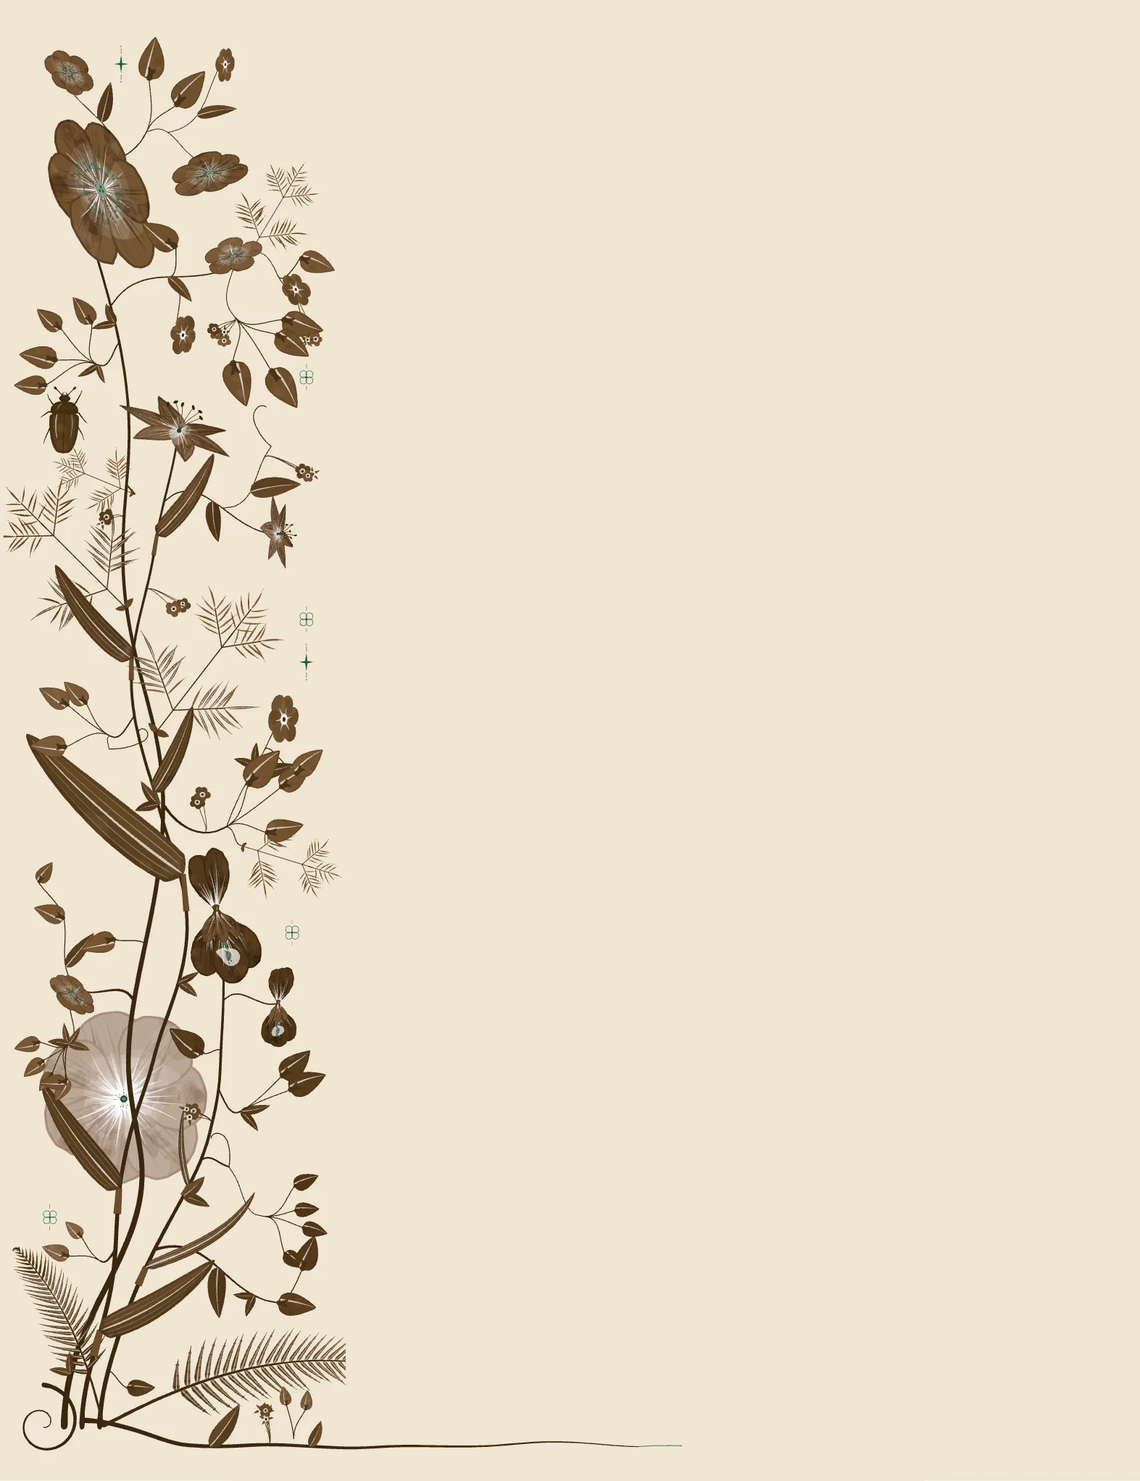
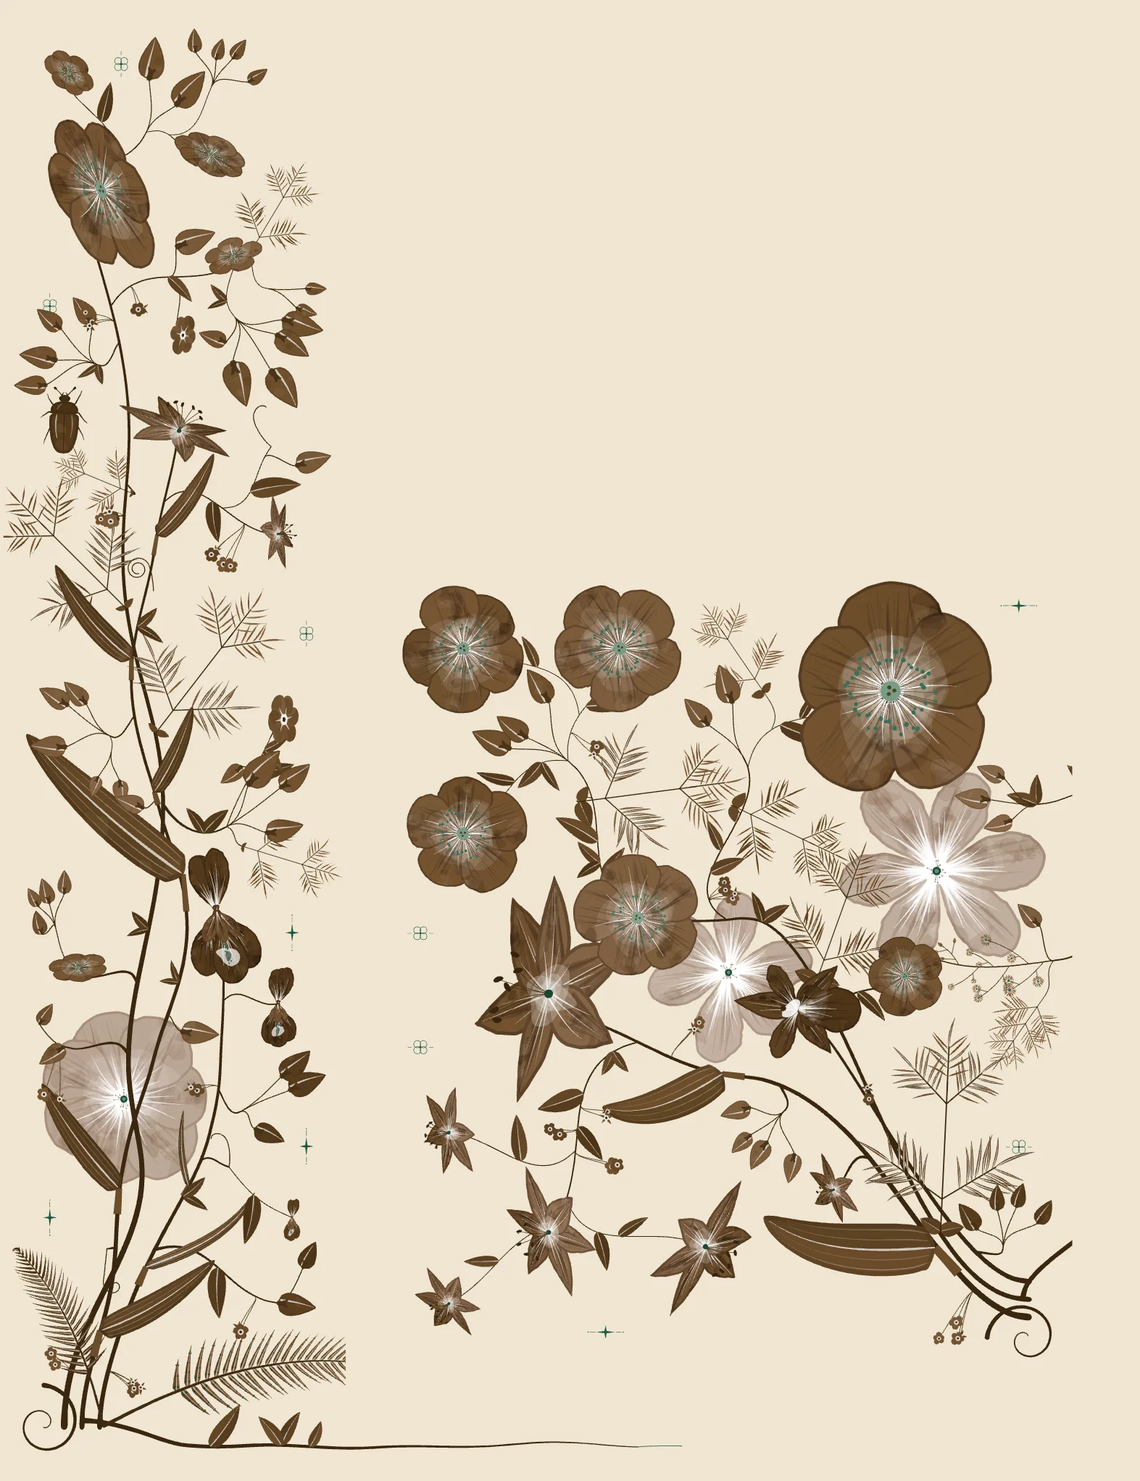
Illuminated header (full-field steppe garden, great initial P in steppe kinds, brush-ground title, painted herd); rising gardens on leaves; continuous brush-start arrows; unique brush grounds; label placement without overlaps
Claude-Session: https://claude.ai/code/session_019R7gPpA5XMnJ1Z11oENPQt

diff --git a/js/map.js b/js/map.js
@@ -3,6 +3,7 @@
 // engraved in red ochre as the reader scrolls, ending at its first written witness. A painted horse gallops along
 // the route being drawn.
 import { loadMask, paintSilhouette } from './painter.js';
+import { brushStroke, uniqueSeed } from './brush.js';
 
 // routes: lon/lat waypoints from the steppe to the place of each branch's earliest substantial texts
 // routes: lon/lat waypoints along each branch's usual archaeological path (steppe hypothesis, simplified),
@@ -58,6 +59,7 @@ export async function mapPlate(root) {
     const acc = [0]; for (let i = 1; i < Q.length; i++) acc.push(acc[i - 1] + Math.hypot(Q[i][0] - Q[i - 1][0], Q[i][1] - Q[i - 1][1]));
     const total = acc[acc.length - 1];
     return t => {
+      if (t < 0) { const a = Math.atan2(Q[3][1] - Q[0][1], Q[3][0] - Q[0][0]), back = -t * total; return [Q[0][0] - Math.cos(a) * back, Q[0][1] - Math.sin(a) * back, a]; }
       const s = Math.min(total, Math.max(0, t * total)); let i = 1; while (i < acc.length - 1 && acc[i] < s) i++;
       const u = (s - acc[i - 1]) / ((acc[i] - acc[i - 1]) || 1), x = Q[i - 1][0] + (Q[i][0] - Q[i - 1][0]) * u, y = Q[i - 1][1] + (Q[i][1] - Q[i - 1][1]) * u;
       const j = Math.min(Q.length - 1, i + 2), h = Math.max(0, i - 3);
@@ -69,12 +71,15 @@ export async function mapPlate(root) {
   const W0 = 44, W1 = 9, HEAD = 62;
   const arrow = (f, k) => {
     if (k <= 0.002) return '';
-    const N = 120, L = [], R = [];
+    // one continuous outline: it begins a little behind the route (the brush touching down), its width rising on a
+    // round profile to full, swelling slightly where the paint is loaded, then narrowing to the head
+    const CAP = .02, N = 140, L = [], R = [];
+    const wOf = t => t < 0 ? W0 / 2 * 1.1 * Math.sqrt(Math.max(0, 1 - (t / CAP) ** 2)) : (W0 * (1 + .1 * Math.exp(-t * 40)) + (W1 - W0) * Math.pow(t, .8)) / 2;
     for (let i = 0; i <= N; i++) {
-      const t = i / N * k, [x, y, a] = f(t), w = (W0 + (W1 - W0) * Math.pow(t, .8)) / 2;   // full width at the base: it leaves the core whole
+      const t = -CAP + (k + CAP) * i / N, [x, y, a] = f(t), w = wOf(t);
       L.push([x - Math.sin(a) * w, y + Math.cos(a) * w]); R.push([x + Math.sin(a) * w, y - Math.cos(a) * w]);
     }
-    const [tx, ty, ta] = f(k), hw = Math.max(W1 * 1.9, (W0 + (W1 - W0) * Math.pow(k, .8)) * 1.15);
+    const [tx, ty, ta] = f(k), hw = Math.max(W1 * 1.9, wOf(k) * 2.3);
     const hx = tx + Math.cos(ta) * HEAD * .9, hy = ty + Math.sin(ta) * HEAD * .9;
     const pt = ([x, y]) => `${x.toFixed(1)},${y.toFixed(1)}`;
     return `M${L.map(pt).join('L')}L${pt([tx - Math.sin(ta) * hw, ty + Math.cos(ta) * hw])}L${pt([hx, hy])}L${pt([tx + Math.sin(ta) * hw, ty - Math.cos(ta) * hw])}L${R.reverse().map(pt).join('L')}Z`;
@@ -90,9 +95,33 @@ export async function mapPlate(root) {
     <g class="routes">${ROUTES.map((r, i) => `<path class="arw" data-i="${i}" d=""/>`).join('')}</g>
 
     <g class="ends">${ROUTES.map((r, i) => { const [x, y] = xy(...r.pts[r.pts.length - 1]); return `<g class="end" data-i="${i}"><circle cx="${x}" cy="${y}" r="9"/>
-      <rect class="lab" x="${x + 14}" y="${y + 12}" width="${Math.max(r.b.length * 40, (r.w.length + r.at.length + 12) * 13.5) + 24}" height="88"/><text class="br" x="${x + 26}" y="${y + 52}" font-size="44">${r.b.toUpperCase()}</text><text class="wit" x="${x + 26}" y="${y + 84}" font-size="26">${r.w}, ${r.at}, ${fmtYear(r.y)}</text></g>`; }).join('')}</g>
+      <g class="tag"><image class="lab" preserveAspectRatio="none" href="${brushStroke('#ffd21a', uniqueSeed())}"/><text class="br" x="0" y="0" font-size="44">${r.b.toUpperCase()}</text><text class="wit" x="0" y="32" font-size="26">${r.w}, ${r.at}, ${fmtYear(r.y)}</text></g></g>`; }).join('')}</g>
     <image class="horse" width="190" height="110" href=""/>`;
   const arrows = [...svg.querySelectorAll('.arw')], ends = [...svg.querySelectorAll('.end')];
+  // place every label so none overlaps another, or the lettering, or the plate's edge
+  {
+    const placed = [], hit = (a, b) => a.x < b.x + b.w && b.x < a.x + a.w && a.y < b.y + b.h && b.y < a.y + a.h;
+    const letters = [...svg.querySelectorAll('.letters text')].map(el => ({ el, b: el.getBBox() }));
+    ends.forEach((g, i) => {
+      const [x, y] = xy(...ROUTES[i].pts[ROUTES[i].pts.length - 1]), tag = g.querySelector('.tag'), txt = [...tag.querySelectorAll('text')];
+      const bw = Math.max(...txt.map(e => e.getComputedTextLength())) + 44, bh = 96;
+      const C = [[22, 18], [22, -bh - 14], [-bw - 22, 18], [-bw - 22, -bh - 14], [-bw / 2, 26], [-bw / 2, -bh - 26], [22, 60], [-bw - 22, 60], [22, -bh - 60], [-bw - 22, -bh - 60]];
+      let best = null;
+      for (const [dx, dy] of C) {
+        const b = { x: x + dx, y: y + dy, w: bw, h: bh };
+        if (b.x < 0 || b.y < 0 || b.x + bw > P.w || b.y + bh > P.h) continue;
+        if (placed.some(p => hit(p, b))) continue;
+        best = b; if (!letters.some(l => hit(l.b, b))) break;
+      }
+      best ||= { x: x + 22, y: y + 18, w: bw, h: bh };
+      placed.push(best);
+      tag.setAttribute('transform', `translate(${best.x},${best.y})`);
+      txt[0].setAttribute('x', 22); txt[0].setAttribute('y', 50); txt[1].setAttribute('x', 22); txt[1].setAttribute('y', 82);
+      const im = tag.querySelector('image'); im.setAttribute('width', bw); im.setAttribute('height', bh);
+    });
+    // lettering that would sit under a label gives way
+    letters.forEach(l => { if (placed.some(p => hit(p, l.b))) l.el.style.display = 'none'; });
+  }
   // the arrows, hand-painted once: a wash, then tapered strokes laid along each route, broken on the tooth
   const painted = document.createElement('canvas'); painted.width = paintCv.width; painted.height = paintCv.height;
   {
@@ -103,13 +132,18 @@ export async function mapPlate(root) {
     const hair = (pts, w) => { for (let i = 1; i < pts.length; i++) { const q = i / pts.length; if (tooth(pts[i][0], pts[i][1]) > .72) continue; g.lineWidth = w * Math.sin(Math.PI * Math.min(1, q * 1.1)) + .4; g.beginPath(); g.moveTo(...pts[i - 1]); g.lineTo(...pts[i]); g.stroke(); } };
     ROUTES.forEach((r, i) => {
       const f = curves[i], full = new Path2D(arrow(f, 1));
-      g.save(); g.globalAlpha = .9; g.fillStyle = '#7a2414'; g.fill(full); g.restore();     // the wash
+      g.save(); g.globalAlpha = 1; g.fillStyle = '#7a2414'; g.fill(full); g.restore();     // the wash: under the strokes, so no gap shows paper
       const wOf = t => (W0 + (W1 - W0) * Math.pow(t, .8)) / 2;
       for (let n = 0; n < 900; n++) {                                                   // strokes along the route
-        const t0 = rnd(), off = (rnd() * 2 - 1) * 1.08, len = .03 + rnd() * .07, pts = [];
+        const t0 = rnd() * 1.02 - .02, off = (rnd() * 2 - 1) * 1.08, len = .03 + rnd() * .07, pts = [];
         for (let k = 0; k <= 10; k++) { const t = Math.min(1, t0 + len * k / 10), [x, y, a] = f(t), w = wOf(t) * off; pts.push([x - Math.sin(a) * w, y + Math.cos(a) * w]); }
         const lt = rnd() < .22; g.strokeStyle = (lt ? light : ramp)[Math.floor(rnd() * (lt ? light : ramp).length)]; g.globalAlpha = .55 + rnd() * .45;
         hair(pts, (lt ? 1.6 : 2.6) * (.6 + rnd()));
+      }
+      for (let n = 0; n < 260; n++) {                                                   // the touch-down: bristles leaving a loaded brush
+        const off = (rnd() * 2 - 1) * 1.1, t0 = -.02 + rnd() * .014, len = .05 + rnd() * .1, pts = [];
+        for (let k = 0; k <= 10; k++) { const t = t0 + len * k / 10, [x, y, a] = f(t), w = Math.max(wOf(Math.max(0, t)), W0 / 2) * off; pts.push([x - Math.sin(a) * w, y + Math.cos(a) * w]); }
+        g.strokeStyle = ramp[Math.floor(rnd() * 3)]; g.globalAlpha = .8; hair(pts, 3.2 * (.6 + rnd()));
       }
       const [tx, ty, ta] = f(1), hw = Math.max(W1 * 1.9, (W0 + (W1 - W0)) * 1.15), hx = tx + Math.cos(ta) * HEAD * .9, hy = ty + Math.sin(ta) * HEAD * .9;
       for (let n = 0; n < 120; n++) {                                                  // the head: strokes running into the point

diff --git a/js/main.js b/js/main.js
@@ -1,7 +1,9 @@
 import { initType, typeset, typesetAll } from './type.js';
 import { noise2, rng, fit, field, draw, speckle, hatchRect } from './hatch.js';
+import { loadMask, paintSilhouette } from './painter.js';
 import { ramp, cord, wheel as sunWheel } from './illum.js';
 import { mapPlate } from './map.js';
+import { brushGround } from './brush.js';
 
 const C = { yellow: '#ffd21a', deep: '#f2b705', ink: '#0e0d0b', paper: '#efe7d6', red: '#f2471c', blue: '#2633c9', moss: '#2e5b3a', chalk: '#f6f1e4' };
 const reduce = matchMedia('(prefers-reduced-motion: reduce)').matches;
@@ -35,40 +37,50 @@ function tooth() {
 }
 
 // ---------------------------------------------------------------------------------------------------- overture
-function overture() {
-  const cv = $('#star');
-  let strokes = [], W = 0, H = 0, ctx;
-  const build = () => {
-    ({ ctx, w: W, h: H } = fit(cv));
-    const cx = W / 2, cy = H / 2, R = Math.min(W, H) * .47, n = noise2(5), arms = 6;
-    // the asterisk: six arms, each a flame of threads streaming outward, the arm waisted at the centre
-    const armOf = (x, y) => {
-      const dx = x - cx, dy = y - cy, r = Math.hypot(dx, dy);
-      if (r > R) return null;
-      const a = Math.atan2(dy, dx), k = Math.round(a / (Math.PI * 2 / arms)), ax = k * Math.PI * 2 / arms;
-      let d = a - ax; d = Math.atan2(Math.sin(d), Math.cos(d));
-      const half = (.13 + .1 * Math.sin(Math.min(1, r / R) * Math.PI)) * (r < R * .12 ? 3 : 1);
-      return Math.abs(d) * Math.max(r, 30) < half * R * .62 ? { ax, r } : null;
-    };
-    strokes = field({ w: W, h: H, spacing: 4.4, len: 46, step: 2, seed: 9,
-      inside: (x, y) => armOf(x, y) !== null,
-      angle: (x, y) => { const o = armOf(x, y); return (o ? o.ax : Math.atan2(y - cy, x - cx)) + n(x * .012, y * .012) * .55; },
-      colors: [C.ink, C.ink, C.ink, C.ink, C.ink, C.ink, C.red], width: [1, 2.3] });
-  };
-  const paint = t => { ctx.clearRect(0, 0, W, H); draw(ctx, strokes, t); };
-  build();
-  const st = { t: reduce ? 1 : 0 };
-  paint(st.t);
-  if (!reduce) gsap.to(st, { t: 1, duration: 3.2, ease: 'power2.out', delay: .2, onUpdate: () => paint(st.t) });
-  addEventListener('repaint', () => { build(); paint(1); });
-  gsap.to(cv, { rotate: 60, ease: 'none', scrollTrigger: { trigger: '#s-open', start: 'top top', end: 'bottom top', scrub: true } });
-
-  // headline lines rise from their masks; the width axis breathes on scroll when the face has one
-  document.querySelectorAll('.open-h .line').forEach(l => { l.innerHTML = `<span>${l.innerHTML}</span>`; });
-  if (!reduce) {
-    gsap.from('.open-h .line > span', { yPercent: 110, duration: 1.1, ease: 'power4.out', stagger: .09, delay: .1 });
-    gsap.from(['.open-p', '.open-pie'], { opacity: 0, y: 20, duration: 1, delay: .8, stagger: .15 });
+// The header is an illuminated page: a steppe garden over the whole field (art/hero.webp), a great initial P from
+// our own kinds (a horse frieze, the herd, sun wheels, tulips), the title on brush-stroke grounds, and a herd of
+// painted horses galloping across the foot.
+async function overture() {
+  document.querySelectorAll('.open-h .line, .open-p').forEach((el, i) => brushGround(el, 11 + i, '#ffd21a'));
+  try {
+    const lib = await import('../vendor/initialis/lib/initialis.js');
+    await lib.use(new URL('kinds/steppe.js', import.meta.url).href);
+    const P = { ...lib.random(4242), text: 'P', paper: '#ffd21a', inkA: '#1d1a16', inkB: '#a8361f', inkC: '#1d1a16',
+      frame: 'rect', fMargin: 6, fRules: 2, fW1: 5, fGap: 96, fW2: 3, fBand: 'horses', fField: 'A', fPattern: 'herd', fPatColor: 'B', fPatScale: 10,
+      fCorner: 'sunwheel', fCornerSize: 70, oFlower: 'tulip', oLeaf: 'willow', lFill: 'paper' };
+    // the P spans the whole title: its top on the first line's top, its foot on the last line's foot
+    const hb = $('.open-h').getBoundingClientRect(), size = Math.round(hb.height);
+    $('.hero-cap').style.width = $('.hero-cap').style.height = size + 'px';
+    // the paragraph sits under the title, never across it
+    const place = () => { const tb = $('.hero-title').getBoundingClientRect(), sb = $('#s-open').getBoundingClientRect(); $('.open-p').style.top = (tb.bottom - sb.top + 26) + 'px'; };
+    place(); addEventListener('repaint', place);
+    $('.hero-cap').innerHTML = `<initialis-cap settings='${JSON.stringify(P)}' size="${size}" grow></initialis-cap>`;
+  } catch (e) { console.info('initialis unavailable', e.message); }
+  // the herd: painted Muybridge frames, a few horses out of step with each other
+  const cv = $('.hero-herd'), pal = { ground: '#1d1a16', mids: ['#1d1a16', '#2a2620', '#3a352c', '#5a5246'], lights: ['#8e2a17', '#a8361f', '#c86a40'], paper: '#ffd21a', accent: '#a8361f' };
+  const frames = [];
+  for (let k = 1; k <= 11; k++) {
+    const m = await loadMask(`art/horse/frame-${String(k).padStart(2, '0')}.png`), ar = m.naturalHeight / m.naturalWidth;
+    const c = document.createElement('canvas'), w = 260, h = w * ar; c.width = w * 2.4; c.height = h * 2.4; const g = c.getContext('2d'); g.scale(2, 2);
+    paintSilhouette(g, m, w * .1, h * .1, w, h, { ...pal, seed: 9, density: 1.3, mane: [.6, .84] }); frames.push(c);
   }
+  const herd = [{ x: .08, ph: 0, s: 1 }, { x: .32, ph: 4, s: .86 }, { x: .55, ph: 7, s: .94 }, { x: .8, ph: 2, s: .8 }];
+  let t0 = 0;
+  const run = t => {
+    const { ctx, w, h } = cv._fit || (cv._fit = fit(cv));
+    ctx.clearRect(0, 0, w, h);
+    const f = Math.floor(t / 90);
+    herd.forEach(o => {
+      const im = frames[(f + o.ph) % 11], hh = h * .92 * o.s, ww = hh * im.width / im.height;
+      const x = ((o.x + t * .00002) % 1.2 - .1) * w;
+      ctx.drawImage(im, x, h - hh, ww, hh);
+    });
+    if (!reduce) requestAnimationFrame(run);
+  };
+  requestAnimationFrame(run);
+  addEventListener('repaint', () => { cv._fit = null; });
+  gsap.to('.hero-field', { scale: 1.08, ease: 'none', scrollTrigger: { trigger: '#s-open', start: 'top top', end: 'bottom top', scrub: true } });
+  if (!reduce) gsap.from('.open-h .line', { xPercent: -8, opacity: 0, duration: 1.1, ease: 'power4.out', stagger: .1, delay: .2 });
 }
 
 // ---------------------------------------------------------------------------------------------------- migration
@@ -438,6 +450,7 @@ async function boot() {
   await document.fonts.ready;
 
   overture();
+  document.querySelectorAll('.mig-p, .mig-year').forEach((el, i) => brushGround(el, 70 + i, '#ffd21a'));
   await mapPlate($('#s-mig'));      // first: its pin spacing must exist before later sections measure
   wheel(data.wheels);
   machine(data.stats);

diff --git a/css/main.css b/css/main.css
@@ -47,17 +47,22 @@ button { font: inherit; color: inherit; }
 .h2 em { font-weight: 400; font-size: 1.05em; }
 
 
-/* 0 · overture */
-#s-open { min-height: 100svh; display: grid; grid-template-columns: 1fr minmax(0, .9fr); align-items: end; gap: var(--gut); padding-top: 90px; overflow: hidden; }
-.star { position: absolute; right: -16vw; top: 22vh; width: min(64vw, 860px); height: min(64vw, 860px); pointer-events: none; }
-.open-h { z-index: 2; }
-.open-h { grid-column: 1 / -1; position: relative; margin: 0; font-family: var(--f-display); font-weight: var(--w-display);
-  font-variation-settings: var(--v-display); font-style: var(--s-display); font-size: clamp(56px, 15vw, 300px); line-height: .82; letter-spacing: -.04em; }
-.open-h .line { display: block; overflow: hidden; }
-.open-h .line > span { display: inline-block; }
-.open-p { grid-column: 2; z-index: 2; max-width: 40ch !important; font-size: clamp(19px, 1.7vw, 27px) !important; line-height: 1.3 !important; position: relative; background: var(--yellow); padding: .5em .6em .6em 0; box-shadow: -.6em 0 0 var(--yellow); font-size: clamp(20px, 1.9vw, 30px); line-height: 1.15; margin: 0; max-width: 30ch; }
-.open-pie { grid-column: 1; grid-row: 2; position: relative; font-size: clamp(22px, 2.6vw, 44px); }
-.vert { position: absolute; left: 6px; top: 50%; transform: rotate(-90deg) translateX(50%); transform-origin: left top; font-size: 11px; white-space: nowrap; }
+/* 0 · overture: an illuminated page */
+#s-open { min-height: 100svh; position: relative; overflow: hidden; padding: 0; display: block; }
+.hero-field { position: absolute; inset: -2%; background: var(--yellow) url(../art/hero.webp) center / cover no-repeat; transform-origin: 50% 60%; }
+.hero-title { position: absolute; left: var(--gut); top: clamp(40px, 7vh, 90px); display: flex; align-items: stretch; gap: .8vw; z-index: 2; }
+.hero-cap { flex: none; aspect-ratio: 1; }
+.hero-cap initialis-cap, .hero-cap canvas { display: block; width: 100%; height: 100%; }
+.open-h { margin: 0; font-family: var(--f-display); font-weight: var(--w-display); font-variation-settings: var(--v-display); font-size: clamp(46px, 8.6vw, 170px); line-height: .86; letter-spacing: -.035em; }
+.open-h .line { display: block; width: fit-content; padding: .02em .32em .08em .22em; margin-bottom: 0; background-size: 100% 100%; background-repeat: no-repeat; }
+.open-h .line:first-child { padding-left: .1em; }
+.open-p { position: absolute; left: calc(var(--gut) + 1vw); z-index: 2; max-width: 58ch; margin: 0; padding: 1.2em 1.7em 1.3em 1.5em;
+  font-size: clamp(16px, 1.3vw, 21px); line-height: 1.3; background-size: 100% 100%; background-repeat: no-repeat; }
+.hero-herd { position: absolute; left: 0; right: 0; bottom: 0; width: 100%; height: clamp(110px, 17vh, 190px); z-index: 1; pointer-events: none; }
+@media (max-width: 820px) {
+  .hero-title { flex-direction: column; } .hero-cap { width: 42vw; }
+  .open-p { left: var(--gut); right: var(--gut); bottom: 120px; }
+}
 
 /* 1 · migration: an engraved plate */
 #s-mig { padding: 0; }
@@ -162,7 +167,7 @@ button { font: inherit; color: inherit; }
 .leaf .ini initialis-cap { display: block; width: 100%; height: 100%; }
 .leaf .p { font-family: var(--f-book); font-weight: var(--w-book); font-variation-settings: var(--v-book); font-size: clamp(17px, 2.9svh, 28px); line-height: 1.28;
   margin: 0; text-align: left; text-wrap: pretty; color: var(--lf-ink); }
-.leaf .e { font-family: var(--f-serif); font-style: italic; font-size: clamp(13px, 1.75svh, 18px); line-height: 1.3; margin: auto 0 0; padding-top: 1em;
+.leaf .e { font-family: var(--f-serif); font-style: italic; font-size: clamp(13px, 1.75svh, 18px); line-height: 1.3; margin: .8em 0 0;
   border: 0; color: color-mix(in srgb, var(--lf-ink) 85%, #000); }
 .leaf .fo { font-family: var(--f-data); }
 
@@ -223,10 +228,9 @@ body::after { content: ""; position: fixed; inset: 0; z-index: 40; pointer-event
 .leaf .pe { display: block; font-family: var(--f-serif); font-style: italic; font-size: .62em; line-height: 1.25; color: color-mix(in srgb, var(--lf-ink) 80%, #000); margin: .15em 0 .55em; }
 
 /* labels over imagery sit on solid yellow */
-.plate .lab { fill: var(--yellow); }
-.mig-p { background: var(--yellow) !important; }
-.wheel-copy .h2, .mig-year { background: var(--yellow); box-decoration-break: clone; -webkit-box-decoration-break: clone; padding: .04em .14em; display: inline; line-height: 1.02; }
-.mig-year { display: inline-block; mix-blend-mode: normal; }
+.mig-p { background-color: transparent !important; padding: 1.1em 1.6em 1.2em 1.4em !important; }
+.mig-year { left: auto !important; right: var(--gut); padding: .12em .5em .16em .4em; mix-blend-mode: normal; }
+.brushed { padding: .1em .45em .14em .35em; }
 
 /* no rules or outlines anywhere */
 .tier, .tier:last-child, .apps, .app, .leaf .rh, .leaf .e, .voices, .tr textarea { border: 0 !important; }

diff --git a/js/brush.js b/js/brush.js
@@ -1,0 +1,43 @@
+// One thick brush stroke, painted once per seed: hundreds of bristle hairs dragged left to right, each starting a
+// little before or after the others (a ragged, loaded start), thinning and lifting toward the end (dry brush),
+// with the edges wavering. Returned as a data URL, stretched over whatever it grounds (HTML or SVG).
+const cache = new Map();
+export function brushStroke(color = '#ffd21a', seed = 1, { w = 900, h = 180 } = {}) {
+  const key = color + seed + w + h; if (cache.has(key)) return cache.get(key);
+  const c = document.createElement('canvas'); c.width = w; c.height = h; const g = c.getContext('2d');
+  let s = seed * 9301 + 49297; const r = () => (s = (s * 1664525 + 1013904223) >>> 0) / 4294967296;
+  const hex = color.replace('#', ''), base = [0, 2, 4].map(i => parseInt(hex.slice(i, i + 2), 16));
+  const tint = k => `rgb(${base.map(v => Math.max(0, Math.min(255, Math.round(v + k)))).join(',')})`;
+  // the body's outline: a slight swell after the start, edges wandering
+  const wob = [r() * 6, r() * 6, r() * 6];
+  // each stroke its own: where it swells, how it slants, how long the dry tail, how loaded the start
+  const swell = .15 + r() * .5, slant = (r() - .5) * .16, tail = .62 + r() * .25, load = .7 + r() * .6, thin = .32 + r() * .14, rough = .5 + r();
+  const half = x => (thin + .1 + .07 * Math.exp(-((x - swell) ** 2) / .03) + .03 * rough * Math.sin(x * 11 + wob[1])) * h * Math.min(1, .55 + x * 6) * (1 - .3 * Math.pow(x, 3));
+  const mid = x => h / 2 + slant * h * (x - .5) + .05 * h * Math.sin(x * 2.4 + wob[2]);
+  g.lineCap = 'round';
+  for (let i = 0; i < 420; i++) {
+    const v = r() * 2 - 1, x0 = (r() * .05 + Math.abs(v) * .035) * w, x1 = w * (.86 + r() * .14 - Math.pow(Math.abs(v), 2) * .12);
+    g.strokeStyle = tint((r() - .5) * 26); g.globalAlpha = .55 + r() * .45; g.lineWidth = 1.2 + r() * 3.2;
+    let px = x0, py = mid(x0 / w) + v * half(x0 / w);
+    for (let x = x0; x < x1; x += 6) {
+      const u = x / w, ny = mid(u) + v * half(u) + (r() - .5) * .8;
+      // dry brush: toward the end the hair skips
+      if (u > tail && r() < (u - tail) * 1.8) { px = x; py = ny; continue; }
+      g.beginPath(); g.moveTo(px, py); g.lineTo(x + 6, ny); g.stroke(); px = x + 6; py = ny;
+    }
+  }
+  // the loaded start: a rounded blot where the brush touched down
+  g.globalAlpha = .9; g.fillStyle = color;
+  g.beginPath(); g.ellipse(w * .035, mid(.03), w * .03 * load, half(.04) * (.9 + .2 * load), slant, 0, Math.PI * 2); g.fill();
+  const url = c.toDataURL(); cache.set(key, url); return url;
+}
+
+// every stroke on the page takes a new seed, so no two are alike
+let counter = 0;
+export const uniqueSeed = () => 1000 + 7919 * ++counter;
+// ground an HTML element with a brush stroke (as its background)
+export function brushGround(el, _seed, color) {
+  if (!el._brush) el._brush = uniqueSeed();
+  el.style.backgroundImage = `url(${brushStroke(color, el._brush)})`;
+  el.style.backgroundSize = '100% 100%'; el.style.backgroundRepeat = 'no-repeat'; el.style.backgroundColor = 'transparent';
+}

diff --git a/index.html b/index.html
@@ -13,13 +13,13 @@
 
 <!-- 0 · overture -->
 <section id="s-open" class="s yellow">
-  <canvas id="star" class="star"></canvas>
-  <h1 class="open-h">
-    <span class="line">Proto-</span>
-    <span class="line">Indo-</span>
-    <span class="line">European</span>
-  </h1>
+  <div class="hero-field" aria-hidden="true"></div>
+  <div class="hero-title">
+    <div class="hero-cap"></div>
+    <h1 class="open-h"><span class="line">roto-</span><span class="line">Indo-</span><span class="line">European</span></h1>
+  </div>
   <p class="open-p serif">Proto-Indo-European is the ancestor of most languages of Europe, Iran and northern India. It was spoken around 4000 BCE and never written down. Everything known about it is reconstructed from its descendants, and each reconstructed form is marked with an asterisk. This project builds the language as a working system: a lexicon, a grammar engine, a corpus of texts written in it, a language model that reads and writes it, and a synthetic voice.</p>
+  <canvas class="hero-herd" aria-hidden="true"></canvas>
 </section>
 
 <!-- 1 · migration -->
